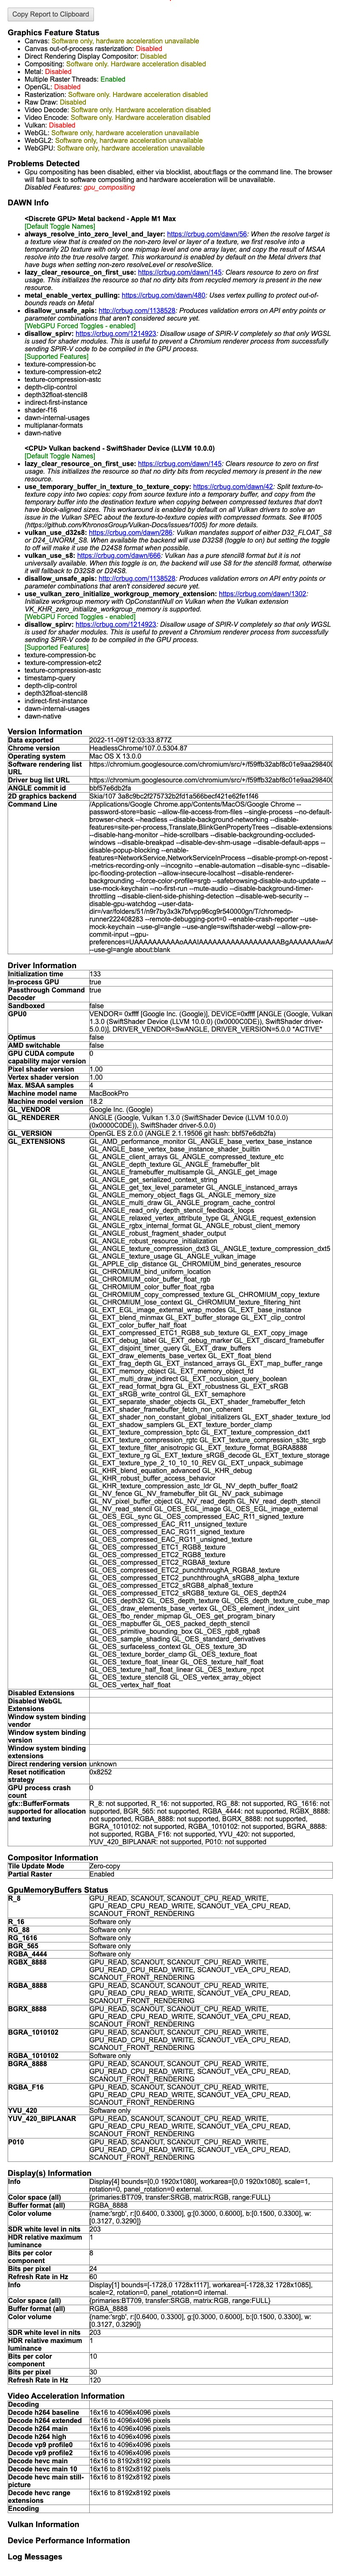
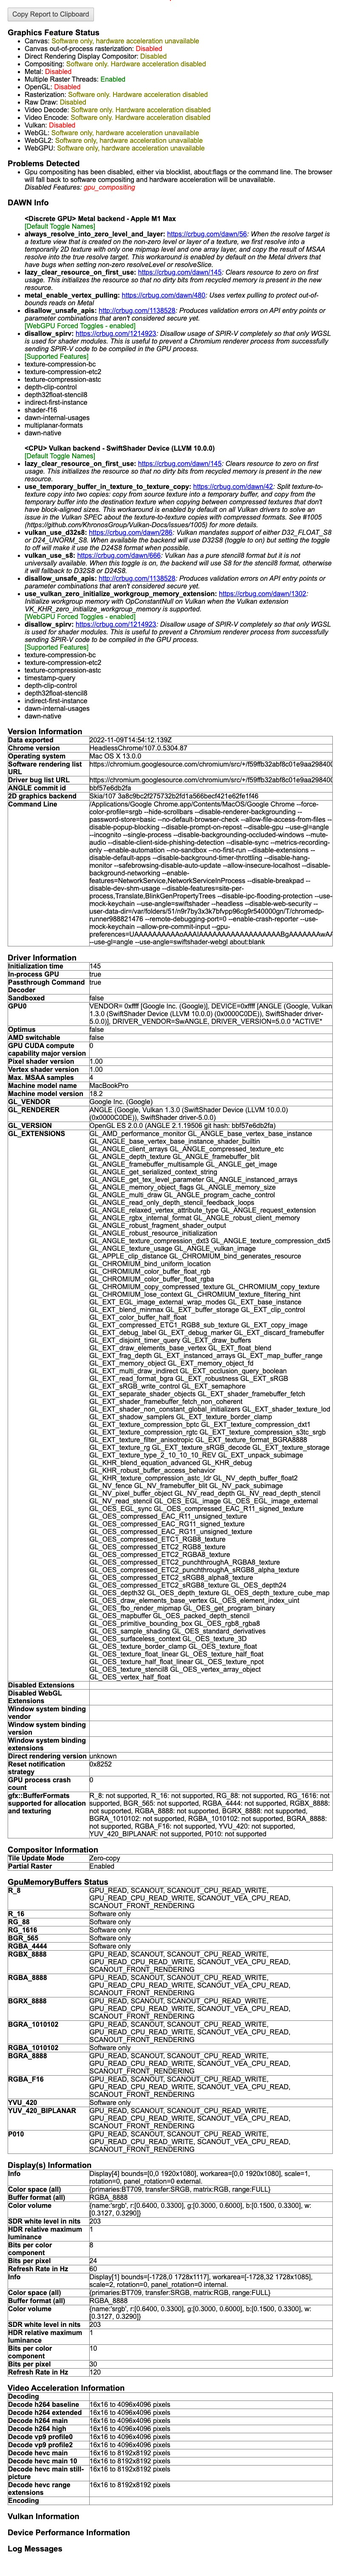
updated

Changed region(s): [[0.0, 0.0, 0.9688, 0.996], [0.9375, 0.1245, 0.9688, 0.1556]]

diff --git a/main.go b/main.go
@@ -33,7 +33,7 @@ func main() {
 		chromedp.DefaultExecAllocatorOptions[:],
 
 		chromedp.Headless,
-		// chromedp.DisableGPU,
+		chromedp.DisableGPU,
 
 		chromedp.NoSandbox,
 		//chromedp.Flag("font-render-hinting", "none"),
@@ -67,14 +67,12 @@ func main() {
 	)
 	defer cancel()
 
-	//gpu := "chrome://gpu"
-
 	dirPath, _ := os.Getwd()
 	log.Println(dirPath)
 
 	webgl := fmt.Sprintf("file://%s/index.html", dirPath)
 
-	//navAndShot(&ctx, chromedp.WaitReady("body"), gpu, "gpu")
+	navAndShot(ctx, chromedp.WaitReady("body"), "chrome://gpu", "gpu")
 	navAndShot(ctx, chromedp.Poll("window.ready===true", nil, chromedp.WithPollingTimeout(2*time.Second)), webgl, "webgl")
 
 }
